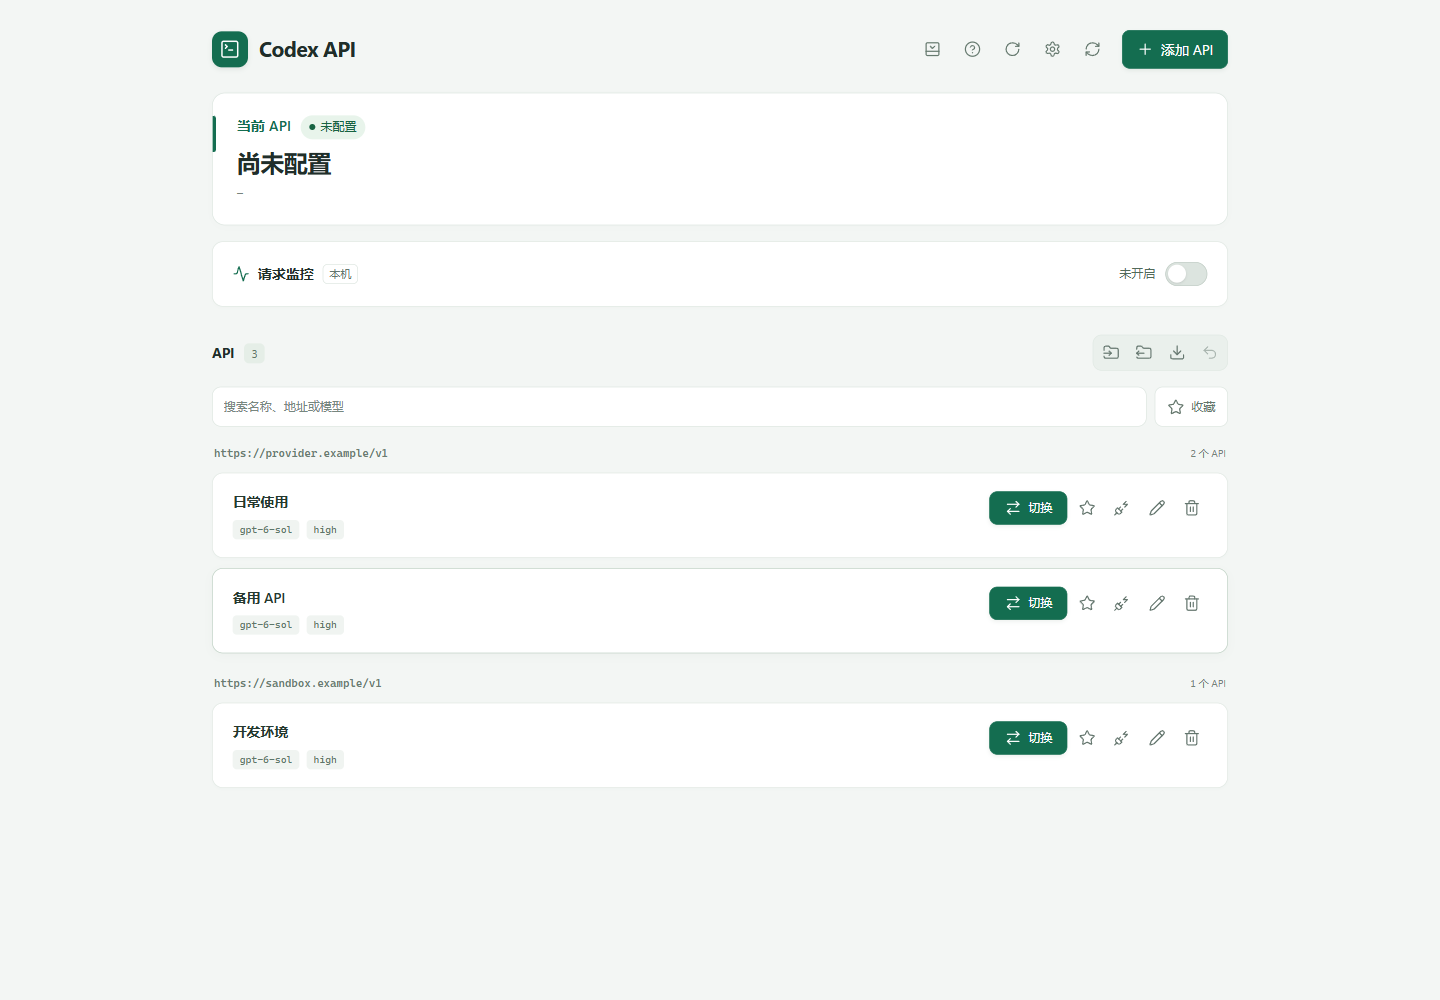
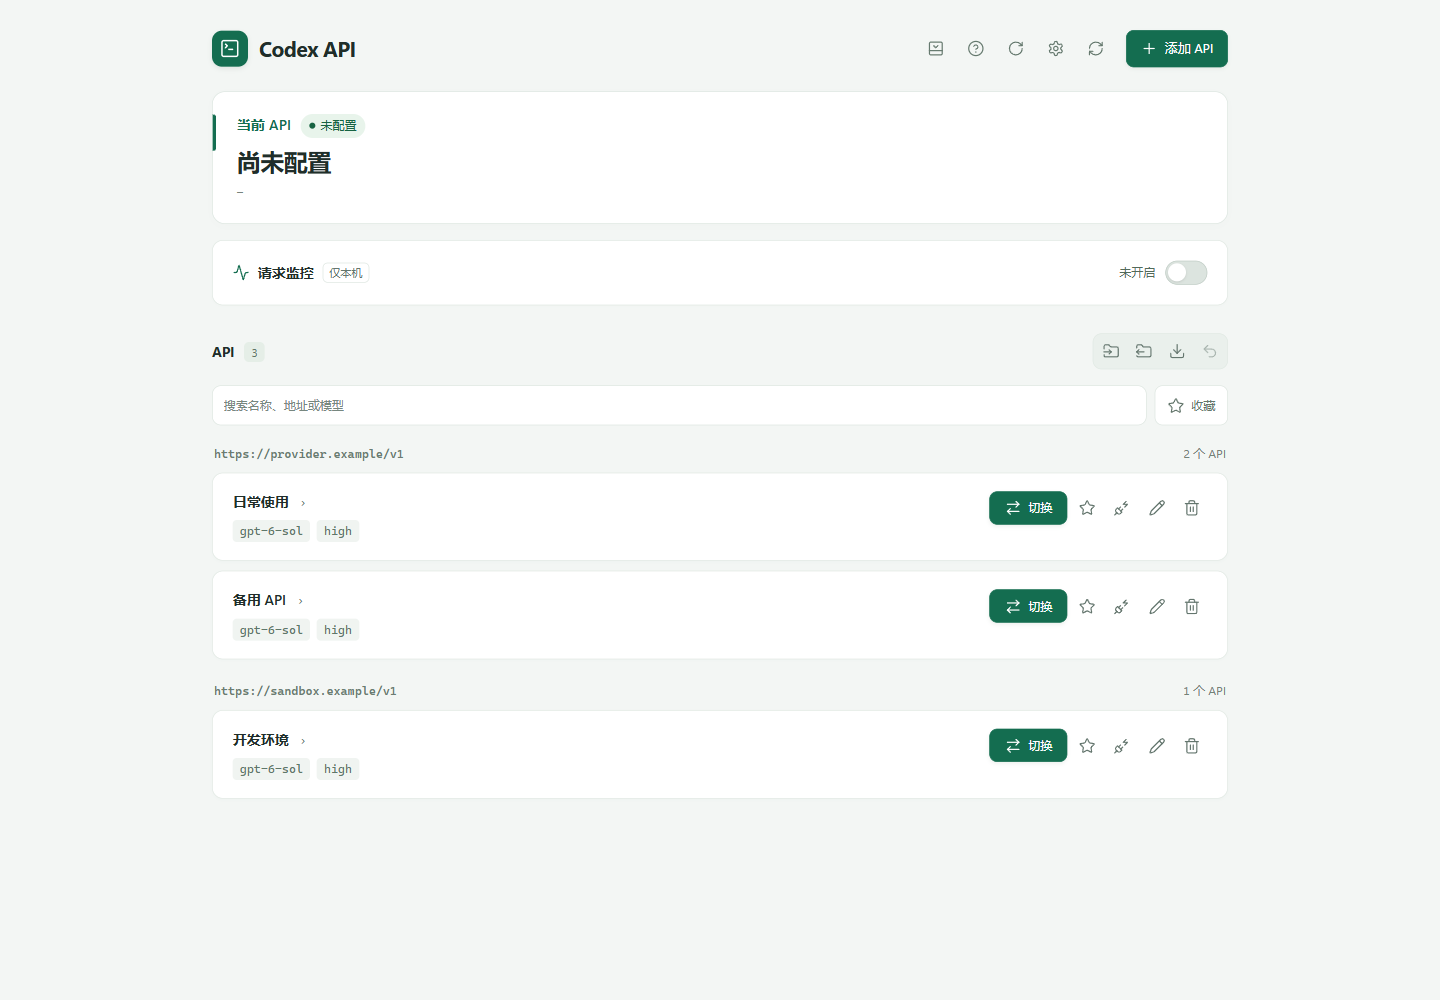
Add explained API details, consistent typography and an unlockable rainbow theme

diff --git a/public/app.js b/public/app.js
@@ -194,6 +194,7 @@ function renderUsage(p) {
   const refresh = button('refresh-cw', '刷新此 API 用量', () => refreshOne(p)); refresh.disabled = !p.hasKey || p.adapter === 'none'; right.append(refresh); row.append(right); return row;
 }
 function render() {
+  if ($('api-details').open) renderApiDetails();
   if (state.settings && !$('settings-dialog').open) window.managerTheme.apply(state.settings.theme, true);
   const active = state.profiles.find(p => p.active);
   $('current-name').textContent = active?.name || (state.current.url ? 'Codex 当前连接' : '尚未配置');
@@ -225,7 +226,11 @@ function render() {
     const group = groups.get(url);
     group.heading.lastChild.textContent = `${++group.count} 个 API`;
     const article = el('article', 'profile' + (p.active ? ' active' : '')); article.dataset.id = p.id;
-    const info = el('div'); const title = el('div', 'profile-title'); title.append(el('h3', '', p.name));
+    const info = el('div'); const title = el('div', 'profile-title');
+    const heading = el('h3');
+    const detailsLink = el('button', 'profile-details-link', p.name); detailsLink.type = 'button';
+    detailsLink.setAttribute('aria-label', '查看详情 ' + p.name); detailsLink.onclick = () => openApiDetails(p.id);
+    heading.append(detailsLink); title.append(heading);
     if (!p.hasKey) title.append(el('span', 'badge empty', '未填写 Key'));
     info.append(title);
     const meta = el('div', 'profile-meta'); meta.append(el('span', '', p.model), el('span', '', p.effort));
@@ -268,6 +273,52 @@ function render() {
   icons();
 }
 function milliseconds(value) { return value == null ? '—' : value < 1000 ? `${Math.round(value)} ms` : `${(value / 1000).toFixed(1)} s`; }
+let detailsProfileId;
+function openApiDetails(id) {
+  detailsProfileId = id; renderApiDetails(); $('api-details').showModal(); icons();
+}
+function renderApiDetails() {
+  const p = state?.profiles.find(p => p.id === detailsProfileId);
+  if (!p) { $('api-details').close(); return; }
+  $('api-details-title').textContent = p.name;
+  const content = $('api-details-content'); content.replaceChildren();
+  function section(title) { const block = el('section', 'detail-section'); block.append(el('h3', '', title)); content.append(block); return block; }
+  function row(block, name, value, explanation) {
+    const item = el('div', 'detail-row'); const label = el('div'); label.append(el('strong', '', name));
+    if (explanation) label.append(el('p', '', explanation));
+    item.append(label, el('span', 'detail-value', value)); block.append(item);
+  }
+  const config = section('连接配置');
+  row(config, 'API 地址', p.url);
+  row(config, '模型', p.model);
+  const efforts = { minimal: '最低', low: '低', medium: '中', high: '高', xhigh: '最高' };
+  row(config, '推理强度', efforts[p.effort] || p.effort, '影响模型思考深度；支持情况由服务商决定。');
+  row(config, '密钥', p.hasKey ? '已保存' : '未填写', '查看或修改 Key，请点击编辑 API。');
+  row(config, '当前配置', p.active ? '正在使用' : '未选中');
+  const usage = section('服务商用量'); const u = p.usage;
+  row(usage, '查询范围', u?.scope || '由服务商接口决定', '来自上游；同一 Key 在其他电脑使用的消耗可能计入，但不能据此判断是谁使用。');
+  if (u?.status === 'ok') {
+    if (u.unlimited || u.remaining != null) row(usage, u.scope || '剩余额度', u.unlimited ? '无限额' : number(u.remaining) + ' ' + (u.unit || ''), '上游返回的可用余额或额度；不代表剩余并发。');
+    if (u.used != null) row(usage, '累计使用', number(u.used) + ' ' + (u.unit || ''), '累计范围由服务商定义，不能默认理解为今天或本月。');
+    if (u.today != null) row(usage, '今日花费', number(u.today) + ' ' + (u.unit || ''), '“今日”的日期边界由服务商决定。');
+    if (u.tokens != null) row(usage, '今日 Token', number(u.tokens), '服务商统计的文本计量单位，不等同于请求次数。');
+    const names = { daily: '日额度', weekly: '周额度', monthly: '月额度', '5h': '5 小时额度', '1d': '日额度', '7d': '周额度' };
+    for (const w of [...(u.windows || []), ...(u.subscription || [])]) row(usage, names[w.name] || w.name, number(w.used) + ' / ' + number(w.limit) + ' ' + (u.unit || ''), '已使用 / 上限；重置时间与统计规则由上游决定。');
+    if (u.expiresAt) row(usage, '到期时间', new Date(u.expiresAt).toLocaleString('zh-CN'));
+  } else row(usage, '查询状态', p.adapter === 'none' ? '未启用用量查询' : u?.message || '尚未查询', '未返回的数据不表示用量为零。');
+  if (u?.checkedAt) row(usage, '最近更新', new Date(u.checkedAt).toLocaleString('zh-CN'), '这是最近一次查询结果，不是实时余额。');
+  const monitoring = section('请求可见范围');
+  row(monitoring, '本机监控', '仅本机代理', '只看到经过本工具的请求，其他电脑直接访问服务商的请求不可见。');
+  row(monitoring, '其他人 / 全局并发', '当前不支持', '需要服务商提供账户级请求或并发接口及查询权限；现有用量接口没有这些数据。');
+  $('details-refresh').disabled = busy || !p.hasKey || p.adapter === 'none';
+}
+$('close-api-details').onclick = () => $('api-details').close();
+$('details-edit').onclick = () => { const p = state.profiles.find(p => p.id === detailsProfileId); $('api-details').close(); if (p) openEditor(p); };
+$('details-refresh').onclick = async () => {
+  const p = state.profiles.find(p => p.id === detailsProfileId); if (!p || busy) return;
+  $('details-refresh').disabled = true;
+  try { await refreshOne(p); } finally { if ($('api-details').open) renderApiDetails(); }
+};
 function renderMetrics(m) {
   if (!m) return;
   $('monitor-toggle').checked = m.enabled;
@@ -514,6 +565,9 @@ function renderSettings() {
   $('data-path').value = s.dataDir; $('data-path').title = s.dataDir;
   $('logging-enabled').checked = s.logging;
   $('auto-updates').checked = s.autoUpdates !== false;
+  if (s.rainbowUnlocked && !document.querySelector('#theme-select option[value="rainbow"]')) {
+    const option = el('option', '', '彩虹 · 隐藏款'); option.value = 'rainbow'; $('theme-select').append(option);
+  }
   $('theme-select').value = s.theme || 'light';
   $('retention-days').value = s.retentionDays;
   $('retention-days').disabled = !s.logging;
@@ -547,6 +601,24 @@ for (const tab of document.querySelectorAll('[data-settings-tab]')) {
 $('settings').onclick = async () => { if (busy || !state.settings) return; try { await load(); renderSettings(); selectSettingsTab('general'); $('storage-details').open = false; $('settings-dialog').showModal(); icons(); } catch (e) { notice(e.message, true); } };
 $('close-settings').onclick = $('cancel-settings').onclick = () => $('settings-dialog').close();
 $('theme-select').onchange = () => window.managerTheme.apply($('theme-select').value);
+$('unlock-theme').onclick = async () => {
+  if (busy) return;
+  const password = $('theme-password').value; $('theme-password').value = '';
+  busy = true; $('unlock-theme').disabled = true;
+  try {
+    const s = state.settings;
+    await api('settings', { dataDir: s.dataDir, logging: s.logging, retentionDays: s.retentionDays, autoUpdates: s.autoUpdates, unlockPassword: password });
+    // Keep any unsaved edits in other settings controls intact.
+    state = await api('state');
+    if (!document.querySelector('#theme-select option[value="rainbow"]')) {
+      const option = el('option', '', '彩虹 · 隐藏款'); option.value = 'rainbow'; $('theme-select').append(option);
+    }
+    $('theme-select').value = 'rainbow'; window.managerTheme.apply('rainbow');
+    $('theme-unlock-status').textContent = '已解锁，保存后应用。';
+  } catch (error) { $('theme-unlock-status').textContent = error.message; }
+  finally { busy = false; $('unlock-theme').disabled = false; }
+};
+$('theme-password').onkeydown = event => { if (event.key === 'Enter') { event.preventDefault(); $('unlock-theme').click(); } };
 $('settings-dialog').addEventListener('close', () => window.managerTheme.apply(state.settings?.theme, true));
 for (const b of document.querySelectorAll('[data-open-dir]')) b.onclick = async () => {
   try { await api('open-directory', { kind: b.dataset.openDir }); } catch (e) { settingsNotice(e.message, true); }

diff --git a/public/workspace-ui.css b/public/workspace-ui.css
@@ -1,4 +1,48 @@
 /* Current connection, monitor placement and categorized settings. */
+:root { --font-body: 13px; --font-caption: 12px; --font-section: 14px; --font-dialog: 20px; }
+.theme-unlock { margin-top: 18px; font-size: var(--font-caption); color: var(--muted); }
+.theme-unlock summary { cursor: pointer; }
+.theme-unlock-controls { display: flex; gap: 8px; margin-top: 12px; }
+.theme-unlock-controls input { flex: 1; }
+.theme-unlock-controls button { flex: none; }
+.theme-unlock p { margin: 8px 0 0; }
+/* Rainbow accents stay on borders and controls; content surfaces remain calm. */
+html[data-palette="rainbow"] { --accent: #b6a0ff; --spectrum: linear-gradient(110deg, #fa839d, #edbc72 22%, #85d7ba 45%, #7cb9f4 68%, #b8a0f3 87%, #ec9fd4); }
+[data-palette="rainbow"] :is(.current, .profile.active, dialog, .quick-guide, .restart-reminder, .update-banner) { border-color: transparent; background: linear-gradient(var(--surface), var(--surface)) padding-box, var(--spectrum) border-box; }
+[data-palette="rainbow"] .current::before { background: var(--spectrum); }
+[data-palette="rainbow"] button.primary,
+[data-palette="rainbow"] button.primary:not(:disabled):hover { background: var(--spectrum); border-color: transparent; color: #182025; }
+[data-palette="rainbow"] .brand-icon { background: var(--spectrum); color: #182025; box-shadow: none; }
+[data-palette="rainbow"] #monitor-toggle:checked { background: var(--spectrum); border-color: #b6a0ff; }
+[data-palette="rainbow"] .settings-nav button[aria-selected="true"],
+[data-palette="rainbow"] .connection-status:not(.pending),
+[data-palette="rainbow"] .profile.active .switch-button:disabled { background: #30283e; border-color: #665380; color: #d4c0f5; }
+[data-palette="rainbow"] :is(input:focus, select:focus, .key-input:focus-within) { border-color: #b6a0ff; }
+[data-palette="rainbow"] .profile.active { border-left-color: #b6a0ff; }
+body { font-size: var(--font-body); }
+button, input, select, label { font-size: var(--font-body); }
+.settings-nav button, .settings-content label, .settings-content button,
+.settings-content input, .settings-content select, .settings-content .monitor-toggle,
+.settings-content .diagnostic-control strong, .settings-content .update-control strong { font-size: var(--font-body); }
+.settings-content h3, .settings-content h3.settings-section-title { font-size: var(--font-section); }
+.settings-content p, .settings-content .options > summary, .storage-path > span,
+.settings-content .storage-path code { font-size: var(--font-caption); line-height: 1.6; }
+.dialog-heading h2, #settings-form > .dialog-heading h2 { font-size: var(--font-dialog); }
+.profile-meta, .profile-group-heading h3, .profile-group-count,
+.usage-message, .usage-time, .metric span, .monitor-toggle, .monitor-scope { font-size: var(--font-caption); }
+.profile-details-link { min-height: 0; height: auto; padding: 0; border: 0; border-radius: 3px; background: transparent; font-size: 14px; font-weight: 600; white-space: normal; text-align: left; overflow-wrap: anywhere; }
+.profile-details-link::after { content: '›'; margin-left: 5px; color: var(--muted); font-weight: 400; }
+.profile-details-link:not(:disabled):hover { background: transparent; color: var(--accent); text-decoration: underline; text-underline-offset: 4px; }
+#api-details { width: min(660px, calc(100% - 32px)); max-height: calc(100dvh - 32px); overflow: auto; }
+.detail-section { border-top: 1px solid var(--line); padding: 18px 0 4px; }
+.detail-section h3 { font-size: var(--font-section); margin: 0 0 8px; }
+.detail-row { display: grid; grid-template-columns: minmax(0, 1fr) minmax(100px, 44%); gap: 20px; padding: 12px 0; }
+.detail-row strong { font-size: var(--font-body); font-weight: 500; }
+.detail-row p { color: var(--muted); font-size: var(--font-caption); line-height: 1.7; margin: 5px 0 0; }
+.detail-value { text-align: right; overflow-wrap: anywhere; font-size: var(--font-body); font-variant-numeric: tabular-nums; }
+[data-theme="dark"] #api-details { background: var(--surface); color: var(--ink); border-color: var(--line); }
+[data-theme="dark"] .profile-details-link { background: transparent; border: 0; color: var(--ink); }
+[data-theme="dark"] .profile-details-link:not(:disabled):hover { background: transparent; color: var(--accent); }
 .current .eyebrow { font-size: 14px; letter-spacing: .2px; }
 .current .connection-status { font-size: 12px; padding: 3px 9px; font-weight: 500; vertical-align: 1px; }
 .connection-status::before { width: 6px; height: 6px; }
@@ -40,7 +84,7 @@ dialog#settings-dialog { width: min(740px, calc(100% - 32px)); padding: 0; overf
 .settings-content .update-control { margin: 0 0 18px; }
 .settings-content .log-controls { margin: 0 0 18px; }
 .settings-content .diagnostic-control { border: 0; padding: 0; margin: 0; align-items: flex-start; }
-.settings-content .path-control input { font-size: 12px; }
+.settings-content .path-control input { font-size: var(--font-body); }
 .settings-content #storage-details { margin-top: 22px; }
 #settings-form > .dialog-actions { margin: 0; padding: 16px 24px; flex: none; }
 #settings-form > #settings-notice { margin: 0 24px 12px; flex: none; }
@@ -50,10 +94,12 @@ dialog#settings-dialog { width: min(740px, calc(100% - 32px)); padding: 0; overf
   main > .monitor-section { padding: 14px 16px; }
   .settings-layout { display: flex; flex-direction: column; min-height: 0; }
   .settings-nav { display: flex; padding: 9px 12px; gap: 4px; border-right: 0; border-bottom: 1px solid var(--line); }
-  .settings-nav button { width: auto; flex: 1; margin: 0; justify-content: center; padding: 8px 4px; font-size: 11px; gap: 5px; }
+  .settings-nav button { width: auto; flex: 1; margin: 0; justify-content: center; padding: 8px 4px; font-size: var(--font-caption); gap: 5px; }
   .settings-nav .lucide { width: 14px; height: 14px; }
   .settings-content { padding: 20px; min-height: 290px; }
   #settings-form > .dialog-heading { padding: 16px 20px; }
   #settings-form > .dialog-actions { padding: 14px 20px; }
   .monitor-stats .metric strong { font-size: 17px; }
+  .detail-row { grid-template-columns: minmax(0, 1fr); gap: 8px; }
+  .detail-value { text-align: left; }
 }

diff --git a/public/index.html b/public/index.html
@@ -39,7 +39,7 @@
       <div id="current-model" class="mono"></div>
     </section>
     <section class="monitor-section" aria-label="实时请求监控">
-      <div class="monitor-heading"><h2><i data-lucide="activity"></i>请求监控</h2><span class="monitor-scope">本机</span><label class="monitor-toggle monitor-switch" title="监控本机请求；开关后需重启 Codex，开启期间保持本工具运行。"><input type="checkbox" id="monitor-toggle" role="switch" aria-label="请求监控"><span id="monitor-toggle-label">未开启</span></label></div>
+      <div class="monitor-heading"><h2><i data-lucide="activity"></i>请求监控</h2><span class="monitor-scope" title="只统计经过本工具代理的请求，不包含其他电脑">仅本机</span><label class="monitor-toggle monitor-switch" title="监控本机请求；开关后需重启 Codex，开启期间保持本工具运行。"><input type="checkbox" id="monitor-toggle" role="switch" aria-label="请求监控"><span id="monitor-toggle-label">未开启</span></label></div>
       <div id="monitor-body" hidden>
         <div id="monitor-stats" class="monitor-stats"></div>
         <details id="request-details"><summary>最近请求 <span id="request-count">0</span></summary><div class="requests-scroll"><table class="request-table"><thead><tr><th>时间</th><th>API / 模型</th><th>状态</th><th>首字节</th><th>耗时</th></tr></thead><tbody id="request-rows"></tbody></table></div></details>
@@ -56,6 +56,11 @@
       <div id="profiles" class="profiles"></div>
     </section>
   </main>
+  <dialog id="api-details" aria-labelledby="api-details-title">
+    <div class="dialog-heading"><h2 id="api-details-title">API 详情</h2><button id="close-api-details" type="button" class="icon" aria-label="关闭详情"><i data-lucide="x"></i></button></div>
+    <div id="api-details-content"></div>
+    <div class="dialog-actions"><button id="details-refresh" type="button"><i data-lucide="refresh-cw"></i>刷新用量</button><button id="details-edit" type="button" class="primary">编辑 API</button></div>
+  </dialog>
   <dialog id="editor">
     <form id="profile-form">
       <div class="dialog-heading"><h2 id="editor-title">添加 API</h2><button type="button" id="close-editor" class="icon" title="关闭"><i data-lucide="x"></i></button></div>
@@ -107,6 +112,7 @@
           <section id="settings-panel-general" role="tabpanel" aria-labelledby="settings-tab-general">
             <h3>外观</h3>
       <label class="setting-row">主题<select id="theme-select"><option value="light">浅色</option><option value="dark">深色</option><option value="system">跟随系统</option></select></label>
+      <details class="theme-unlock"><summary>隐藏主题</summary><div class="theme-unlock-controls"><input id="theme-password" type="password" autocomplete="off" placeholder="输入解锁口令" aria-label="隐藏主题口令"><button id="unlock-theme" type="button">解锁</button></div><p id="theme-unlock-status" role="status"></p></details>
       <h3 class="settings-section-title">软件更新</h3>
       <div class="update-control"><div><strong id="update-version">软件更新</strong><p id="update-status-text" role="status">检查 GitHub 发布版本</p></div><button id="check-update" type="button">检查更新</button></div>
       <label class="monitor-toggle"><input id="auto-updates" type="checkbox"><span>自动检查更新</span></label>

diff --git a/public/theme.js b/public/theme.js
@@ -3,8 +3,9 @@
   const media = matchMedia('(prefers-color-scheme: dark)');
   let preference = 'light';
   function apply(value, remember = false) {
-    preference = ['light', 'dark', 'system'].includes(value) ? value : 'light';
-    document.documentElement.dataset.theme = preference === 'system' ? (media.matches ? 'dark' : 'light') : preference;
+    preference = ['light', 'dark', 'system', 'rainbow'].includes(value) ? value : 'light';
+    document.documentElement.dataset.palette = preference;
+    document.documentElement.dataset.theme = preference === 'system' ? (media.matches ? 'dark' : 'light') : preference === 'rainbow' ? 'dark' : preference;
     if (remember) { try { localStorage.setItem('appearance-theme', preference); } catch {} }
   }
   try { apply(localStorage.getItem('appearance-theme')); } catch { apply('light'); }

diff --git a/README.md b/README.md
@@ -43,7 +43,7 @@
 
 ## 适合这样的你
 
-- **手里有多个服务商或 Key**：按地址分组，同一个 URL 下的不同 Key 分开保存；搜索、收藏快速找到常用连接。
+- **手里有多个服务商或 Key**：按地址分组，同一个 URL 下的不同 Key 分开保存；搜索、收藏快速找到常用连接，点击名称查看详情。
 - **经常切换 Codex 连接**：选中 API，一键写入配置，再重启 Codex App；CLI 重新打开即可加载。
 - **想知道请求为什么失败**：连接测试、HTTP 状态、首字节等待与本机转发情况集中查看。
 - **需要换电脑或分享配置**：软件与数据整夹迁移；也可选择部分 API 导出，Key 一起携带。
@@ -55,7 +55,7 @@
 | 按 URL 分组，多 Key 独立保存 | 勾选批量刷新用量，记住选择 | 双击 EXE，无需安装 |
 | 查询模型，选择或手动填写 | 查询上游支持的余额、额度和累计用量 | 浅色 / 深色 / 跟随系统 |
 | 切换配置、撤销切换、重启 App | 确认后发送“你好”测试连接 | 托盘菜单切换 API 与重启 App |
-| 搜索、收藏、删除后 30 秒内恢复 | 本机并发、限流、请求状态与耗时 | 悬浮新手引导与更新提醒 |
+| 点击 API 名称查看配置和用量解释 | 本机并发、限流、请求状态与耗时 | 悬浮新手引导与更新提醒 |
 | 导入配置、选择性导出（包含 Key） | 脱敏诊断导出，协助排查 | 检查新版、校验文件、一键更新 |
 
 ## 快速开始
